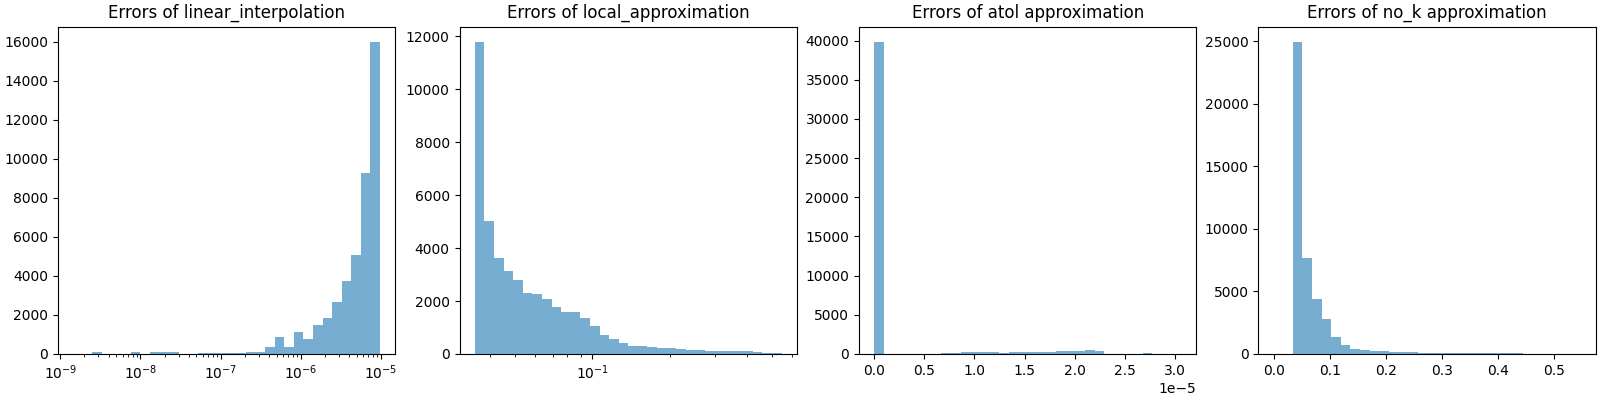
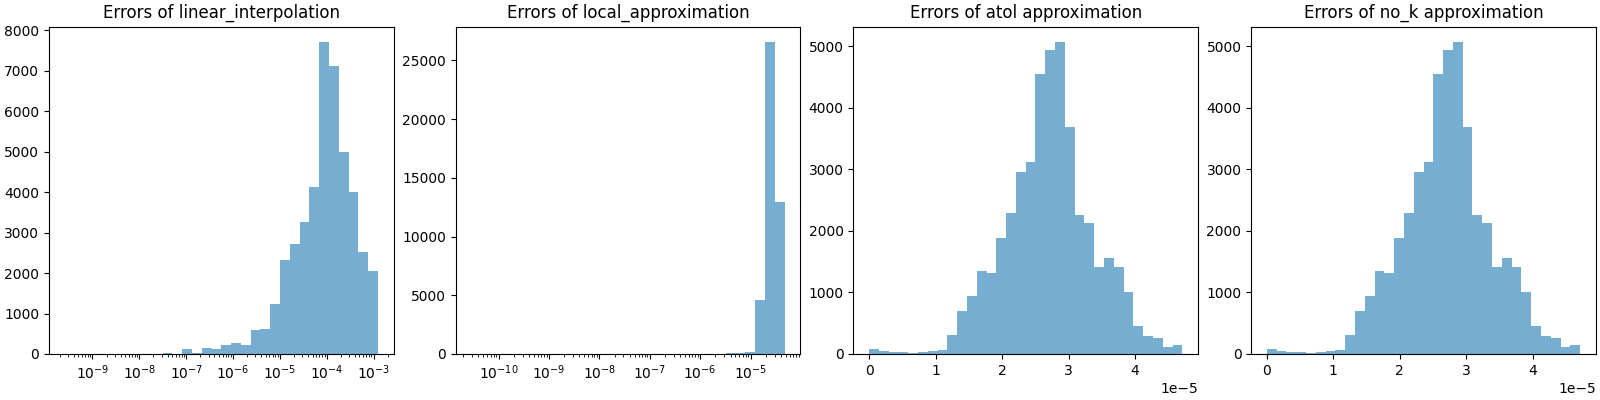
last meeting notes

diff --git a/imbal/regression/generate_weights.py b/imbal/regression/generate_weights.py
@@ -9,12 +9,11 @@ from scipy.interpolate import RegularGridInterpolator
 def get_densities(
         labels,
         bandwidth,
-        optimization=None,
-        distribution_samples=None,
-        k=None,
+        interpolation_method=None,
+        interpolation_samples=None,
         atol=0,
         padding_factor=0.01,
-        return_optimization=False
+        return_interpolation_samples=False
 ):
     r"""
     This function exists as a means of extracting densities from a scitkit-learn
@@ -56,6 +55,8 @@ def get_densities(
     time complexity for sampling all label densities is :math:`O(kn)`.
 
     Args:
+        atol:
+        bandwidth:
         labels: A NumPy array of labels, arranged as a column vector
         kde: A scikit-learn :code:`KernelDensity` object instance. Densities will be
             sampled from the object using :code:`kde.score_samples`.
@@ -110,8 +111,8 @@ def get_densities(
         [0.674, 0.674, 0.674, 0.674, 0.674, 0.674, 0.674, 0.674, 0.674, 0.674,
          0.674, 0.674, 0.349, 0.349, 0.349, 0.349, 0.349, 0.349, 0.118, 0.118]
     """
-    if distribution_samples is None:
-        distribution_samples = round(labels.shape[0] / 10)
+    if interpolation_samples is None:
+        interpolation_samples = round(labels.shape[0] / 10)
 
     labels = labels.reshape(labels.shape[0], -1)
 
@@ -119,24 +120,22 @@ def get_densities(
 
     # Use KDE estimation to generate weights
     points, densities = None, None
-    if optimization is None:
+    if interpolation_method is None:
         densities = np.exp(kde.score_samples(labels).reshape(-1, ))
-    elif optimization == 'linear_interpolation':
+    else:
         points, densities = _linearly_interpolate_kde(
             labels,
             kde,
-            distribution_samples,
-            padding_factor
+            interpolation_samples,
+            padding_factor,
+            interpolation_method
         )
-    elif optimization == 'local_approximation':
-        points, densities = _local_kde_optimization(labels, kde, k, atol)
-    else:
-        raise ValueError("'optimization' must be either 'linear_interpolation', 'local_approximation', or None")
+
     approx = (points, densities)
 
     densities = densities.reshape(densities.shape[0], -1)
 
-    if return_optimization and approx is not None:
+    if return_interpolation_samples and approx is not None:
         return densities, approx
     else:
         return densities
@@ -224,8 +223,9 @@ def _local_kde_optimization(
 def _linearly_interpolate_kde(
         labels,
         kde,
-        distribution_samples,
-        padding_factor
+        interpolation_samples,
+        padding_factor,
+        optimization_method
 ):
     labels = np.asarray(labels)
     if labels.ndim == 1:
@@ -233,15 +233,15 @@ def _linearly_interpolate_kde(
     D = labels.shape[1]
 
     # Get min, max, step per dimension
-    label_min, label_max, step = get_label_bin_bounds(labels, distribution_samples, padding_factor)
+    label_min, label_max, step = get_label_bin_bounds(labels, interpolation_samples, padding_factor)
     # Create 1D linspace per dimension
-    grids_1d = [np.linspace(lo, hi, distribution_samples + 1) for lo, hi in zip(label_min, label_max)]
+    grids_1d = [np.linspace(lo, hi, interpolation_samples + 1) for lo, hi in zip(label_min, label_max)]
     # Create full N-D meshgrid of sample points
     mesh = np.meshgrid(*grids_1d, indexing='ij')
     sample_points = np.stack(mesh, axis=-1).reshape(-1, D)  # (num_points, D)
 
     interpolate_densities = np.exp(kde.score_samples(sample_points))
-    interpolate_densities = interpolate_densities.reshape([distribution_samples + 1] * D)
-    interpolator = RegularGridInterpolator(tuple(grids_1d), interpolate_densities)
+    interpolate_densities = interpolate_densities.reshape([interpolation_samples + 1] * D)
+    interpolator = RegularGridInterpolator(tuple(grids_1d), interpolate_densities, method=optimization_method)
     sample_densities = interpolator(labels)
     return sample_points, sample_densities

diff --git a/10-2025/10-13-25/reweighting_test.py b/10-2025/10-13-25/reweighting_test.py
@@ -2,6 +2,9 @@ import os
 import numpy as np
 import kagglehub
 import csv
+
+from sklearn.neighbors import KernelDensity
+
 import imbal
 
 
@@ -19,7 +22,7 @@ def read_csv_to_list_of_lists(filepath):
 # data = data[1:1000, 2].astype(np.float64)
 # print(data)
 
-PATH_START = '/mnt/c/Users/tommy/PycharmProjects/DrChanWorkPlayground'
+PATH_START = '/mnt/c/Users/tommy/Desktop/Repos/dr-chan-work-demo'
 print(os.getcwd())
 
 data = np.array(read_csv_to_list_of_lists(f'{PATH_START}/CISIR-data/SARCOS/sarcos_inv_training.csv'))
@@ -46,16 +49,16 @@ BINS=32
 print(1)
 bandwidth = imbal.regression.kde.fit_kde(
     data,
-    bandwidth='ratio',
+    bandwidth='kl_divergence',
     bin_count=BINS,
 )
-
-# imbal.regression.plot_kde(
-#     data,
-#     kde,
-#     bin_count=BINS,
-#     save_figure='dataset-1.png'
-# )
+kde = KernelDensity(bandwidth=bandwidth).fit(data.reshape(-1, 1))
+imbal.regression.plot_kde_1d(
+    data,
+    kde,
+    bin_count=BINS,
+    save_figure='dataset-1.png'
+)
 print(2)
 start = time.time()
 densities = imbal.regression.get_densities(
@@ -71,7 +74,7 @@ lin_int_densities, lin_int_approx = imbal.regression.get_densities(
     data,
     bandwidth,
     distribution_samples=10*BINS,
-    optimization='linear_interpolation',
+    optimization_method='linear',
     return_optimization=True
 )
 end=time.time()
@@ -83,7 +86,7 @@ loc_approx_densities, loc_approx_approx = imbal.regression.get_densities(
     data,
     bandwidth,
     distribution_samples=10*BINS,
-    optimization='local_approximation',
+    # optimization='local_approximation',
     k=BINS*10,
     atol=1e-4,
     return_optimization=True
@@ -108,7 +111,7 @@ no_k_densities = imbal.regression.get_densities(
     data,
     bandwidth,
     distribution_samples=10*BINS,
-    optimization='local_approximation',
+    # optimization='local_approximation',
     # k=BINS*10,
     atol=1e-4
 )
@@ -144,6 +147,8 @@ ax[3].set_title('Errors of no_k approximation')
 ax[3].set_ylim(auto=True)
 plt.savefig('dataset-1-error-histogram.png')
 plt.show()
+
+densities = densities.reshape(-1)
 
 print('lin_int average error:', np.mean(lin_errors))
 print('loc_approx average error:', np.mean(loc_approx_errors))

diff --git a/imbal/regression/kde.py b/imbal/regression/kde.py
@@ -11,8 +11,7 @@ def fit_kde(
         steps_per_bin = 10,
         fine_search = 10,
         tolerance = 1e-3,
-        padding_factor=0.01,
-        atol=0
+        padding_factor=0.01
 ):
     """
     Automatically determine a bandwidth and gaussian KDE curve best fits
@@ -151,12 +150,16 @@ def plot_kde_1d(
        :alt: A histogram plot of the data from the example above
     """
     bin_count = calculate_bin_count(labels, bin_count, average_samples_per_bin)
-
     labels = np.sort(labels.reshape(-1, ))
     high_freq_bin_count, high_freq_bin_index, low_freq_bin_count, low_freq_bin_index = _determine_high_low_freq_bins(labels,
                                                                                                          bin_count,
                                                                                                          padding_factor)
     label_min, label_max, step = get_label_bin_bounds(labels, bin_count, padding_factor)
+    label_min = label_min[0]
+    label_max = label_max[0]
+    step = step[0]
+    low_freq_bin_index = low_freq_bin_index[0]
+    high_freq_bin_index = high_freq_bin_index[0]
     min_count = low_freq_bin_count
     max_count = high_freq_bin_count
 
@@ -170,7 +173,6 @@ def plot_kde_1d(
     ax.plot(x_plot, np.exp(log_dens), label='KDE Curve')
     if approximation is not None:
         plt.plot(approximation[0], approximation[1], label='Approximation', color='orange')
-
     ax.hist(labels, bins=[label_min + i * step for i in range(bin_count+1)], density=True, alpha=0.6, label='Histogram')
     f_min_bar = label_min + (low_freq_bin_index + .5) * step
     ax.axvline(x=f_min_bar, color='red', linestyle='--', linewidth=2)

diff --git a/10-2025/10-8-25/reweighting_test.py b/10-2025/10-8-25/reweighting_test.py
@@ -26,9 +26,9 @@ print(os.getcwd())
 # print(data.shape)
 # data = data[1:, -1].astype(float)
 
-data = np.array(read_csv_to_list_of_lists(f'{PATH_START}/CISIR-data/SEP-C/sep_10mev_training.csv'))
-print(data.shape)
-data = data[1:, 22].astype(float)
+# data = np.array(read_csv_to_list_of_lists(f'{PATH_START}/CISIR-data/SEP-C/sep_10mev_training.csv'))
+# print(data.shape)
+# data = data[1:, 22].astype(float)
 
 data = np.array(read_csv_to_list_of_lists(f'{PATH_START}/CISIR-data/SEP-EC/training/sep_event_1_filled_ie_trim.csv'))[1:]
 for i in range(43):
@@ -55,12 +55,12 @@ atol_kde = imbal.regression.kde.fit_kde(
     bin_count=BINS,
     atol=1e-4
 )
-# imbal.regression.plot_kde(
-#     data,
-#     kde,
-#     bin_count=BINS,
-#     save_figure='dataset-1.png'
-# )
+imbal.regression.plot_kde_1d(
+    data,
+    kde,
+    bin_count=BINS,
+    save_figure='dataset-1.png'
+)
 print(2)
 start = time.time()
 densities = imbal.regression.get_densities(

diff --git a/10-2025/10-13-25/multidim-kernel-test.py b/10-2025/10-13-25/multidim-kernel-test.py
@@ -38,7 +38,7 @@ bandwidth = imbal.regression.kde.fit_kde(
 )
 print(2)
 
-kde = KernelDensity(bandwidth=bandwidth)
+kde = KernelDensity(bandwidth=bandwidth).fit(data)
 
 print(grid.shape)
 values = np.exp(kde.score_samples(grid))

diff --git a/Dr. Chan Research Work Notes/Notes - 10-25.md b/Dr. Chan Research Work Notes/Notes - 10-25.md
@@ -205,9 +205,33 @@
 	- To see how speed compares with `atol` $\checkmark$
 	- If speed is no longer significantly faster than `atol`, we will get rid of `local_approximation` $\checkmark$
 - Sixth row: `linear_interpolation` with `scipy.RegularGridInterpolator` (in 1D) $\checkmark$
-- Reorganize code, return bandwidth, not `KernelDensity`, skip `scikit-learn` $\checkmark $
+- Reorganize code, return bandwidth, not `KernelDensity`, skip `scikit-learn` $\checkmark$
 
 Notes:
 - Updated code to work in multidimensions
 	- Still not positive this works entirely as expected, but early tests are promising
 	- Converting from 1D to nD took longer than I thought. Linear interpolation was an easy enough problem to solve, however nD iterative bandwidth using KL convergence was much trickier
+- Once again, documentation needs a bit of an overhaul.
+
+## Tasks:
+- For `local_approximation`, get rid of `k`, but allow for our (faster and more accurate) method for 1D, otherwise leverage `scikit-learn`, which already has nD
+- For linear interpolation, always use `scikit-learn`
+- In documentation intro, explain methodology for local approximation in 1D (amortized $O(n)$ vs $O(nlogn)$)
+- Documentation for `fit_kde`
+	- Introduction
+		- Two methods for faster computation at the cost of lower accuracy, `atol` and interpolation
+		- 1D for local uses custom implementation for faster results
+			- `scikit-learn` for higher dimension
+		- Interpolation via `scipy`
+	- Parameters
+	- Examples
+		- Where tables and histograms are
+		- Show time differences for better in one dimensional
+- KL divergence (or other metrics too) should occur per bin, not per sub-bin
+- instead of multiplying by bin width and then  "dividing by one", sum up densities in bin, and divide by the sum of all sampled densities
+- Shift by half sub-bin width
+	- Argue that the sum of the sub-bin samples (height) is proportional to the AUC (just missing multiplication by a constant width v)
+- 2D table
+	- Regular
+	- Local (atol)
+	- Linear interpolation
